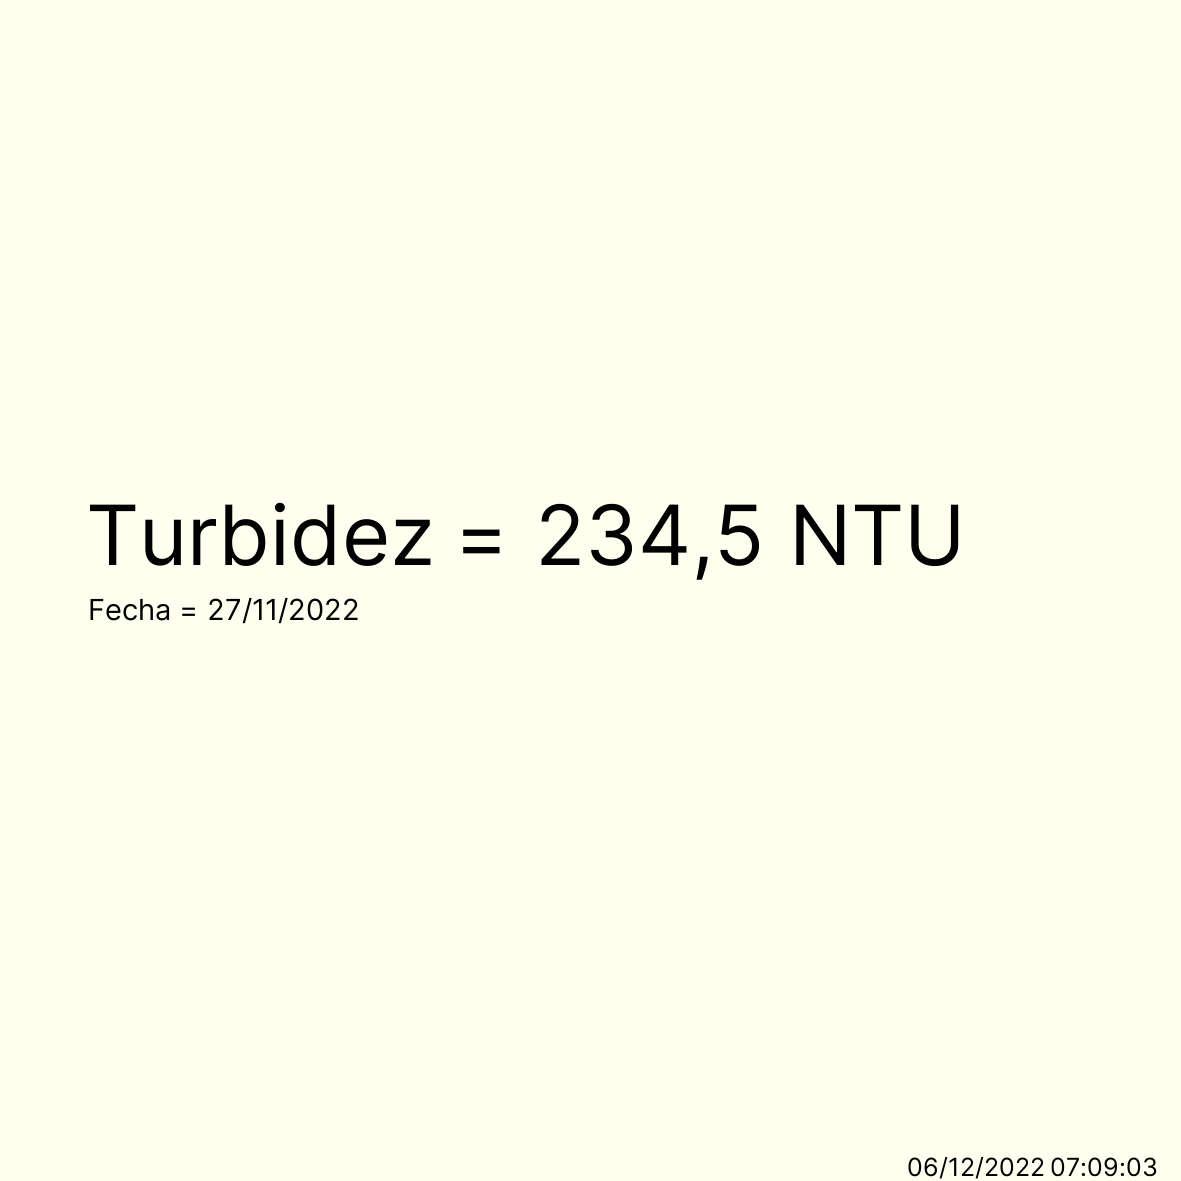
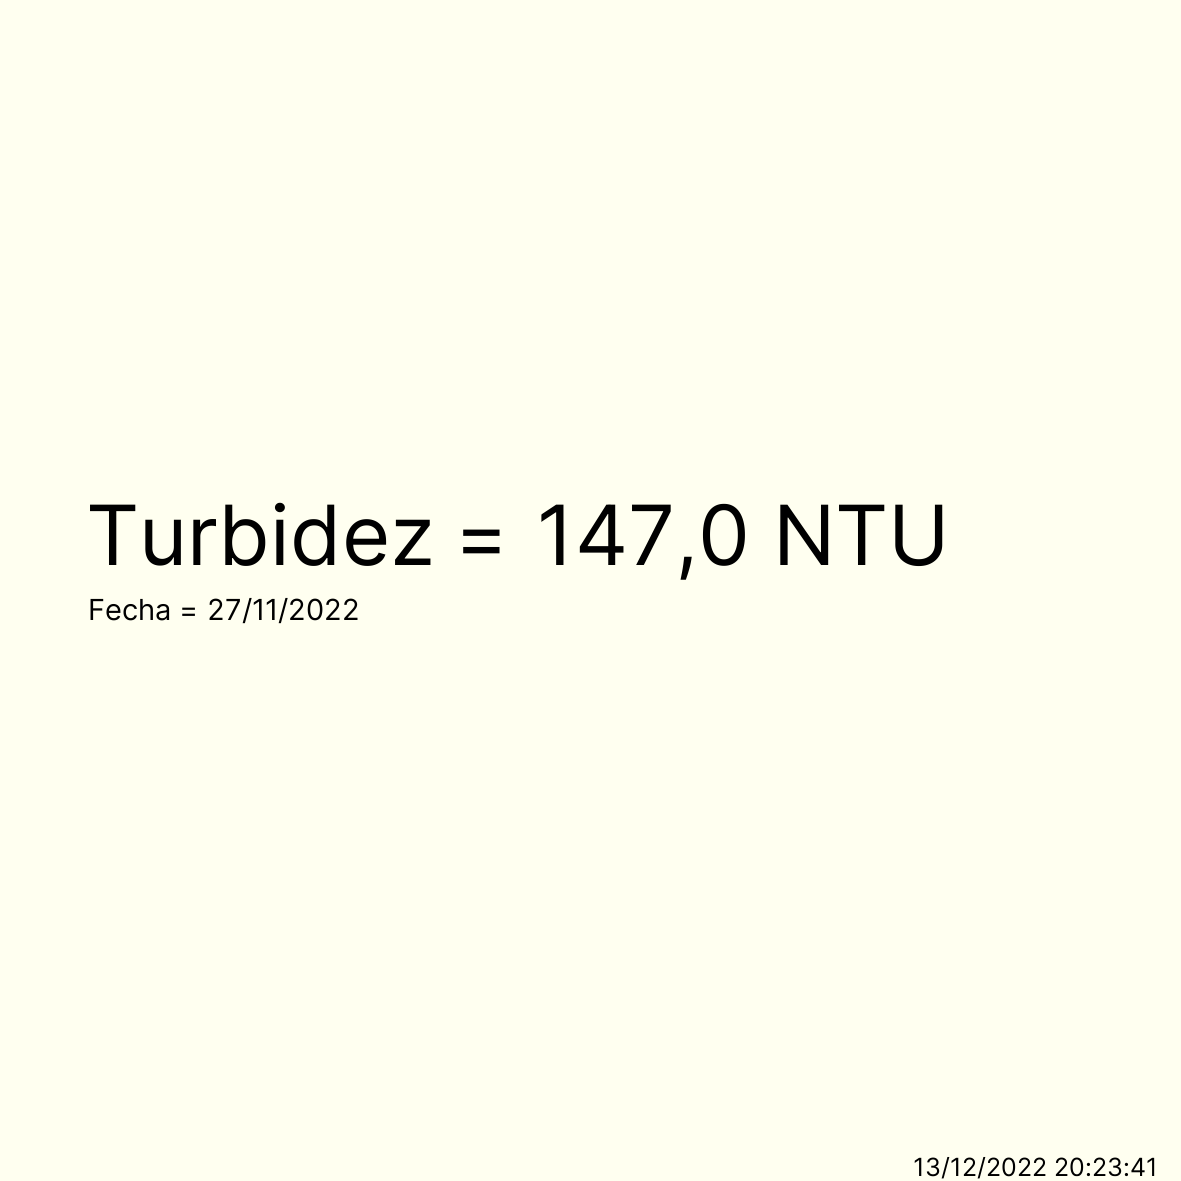
Última firma espectral

Changed region(s): [[0.4572, 0.4268, 0.823, 0.4877], [0.7621, 0.9754, 0.9754, 1.0]]

diff --git a/index.html b/index.html
@@ -386,10 +386,10 @@ font-size: 1.2vw;
 font-family: "Inter", sans-serif;
 }
 </style>
[2 lines of base64/hex data omitted]
 <div class="columns">
 <div class="column" style="width:70%;">
-<p>Última actualización realizada el 06/12/2022 07:09:05<br />
+<p>Última actualización realizada el 13/12/2022 20:23:42<br />
 Sitio web <a href="https://github.com/vhgauto/monitoreo" target="_blank">desarrollado</a> por <a href="mailto:victor.gauto@outlook.com" target="_blank">Víctor
 Gauto</a></p>
 </div><div class="column" style="width:10%;">
